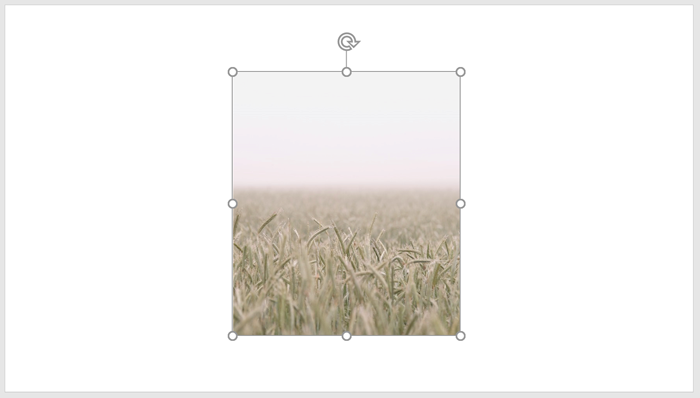
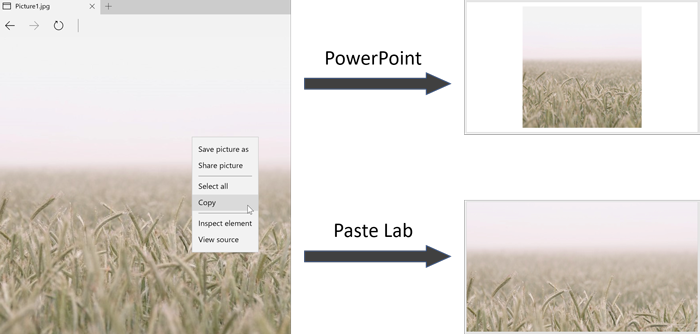
Change first example for paste lab

diff --git a/_docs/paste-lab.md b/_docs/paste-lab.md
@@ -7,18 +7,13 @@ title: Paste Lab
 
 **Paste To Fill Slide** helps you paste your copied objects to fill the entire slide.
 
-<img src="{{ site.baseurl }}/img/docs/paste-lab/image_0.png" width="350">
-<img src="{{ site.baseurl }}/img/docs/paste-lab/image_1.png" width="350">
+<img src="{{ site.baseurl }}/img/docs/paste-lab/image_0.png" width="800">
 
-To do so, select the objects which you would like to fill the slide with.
-
-<img src="{{ site.baseurl }}/img/docs/paste-lab/image_2.png" width="700">
-
-Then, copy them using `Copy` under the right-click context menu or the `ctrl+c` keyboard shortcut.
+First, copy a picture using `Copy` under the right-click context menu or the `ctrl-c` keyboard shortcut.
 
 > **Note:** All Paste Lab features requires a copied object. You can also copy pictures from other applications on your computer.
 
-Finally, `right-click` on an empty area of the slide, and select `Paste To Fill Slide` under PowerPointLabs.
+Then, `right-click` on the slide, and select `Paste To Fill Slide` under PowerPointLabs.
 
 <img src="{{ site.baseurl }}/img/docs/paste-lab/image_3.png" width="350">
 
